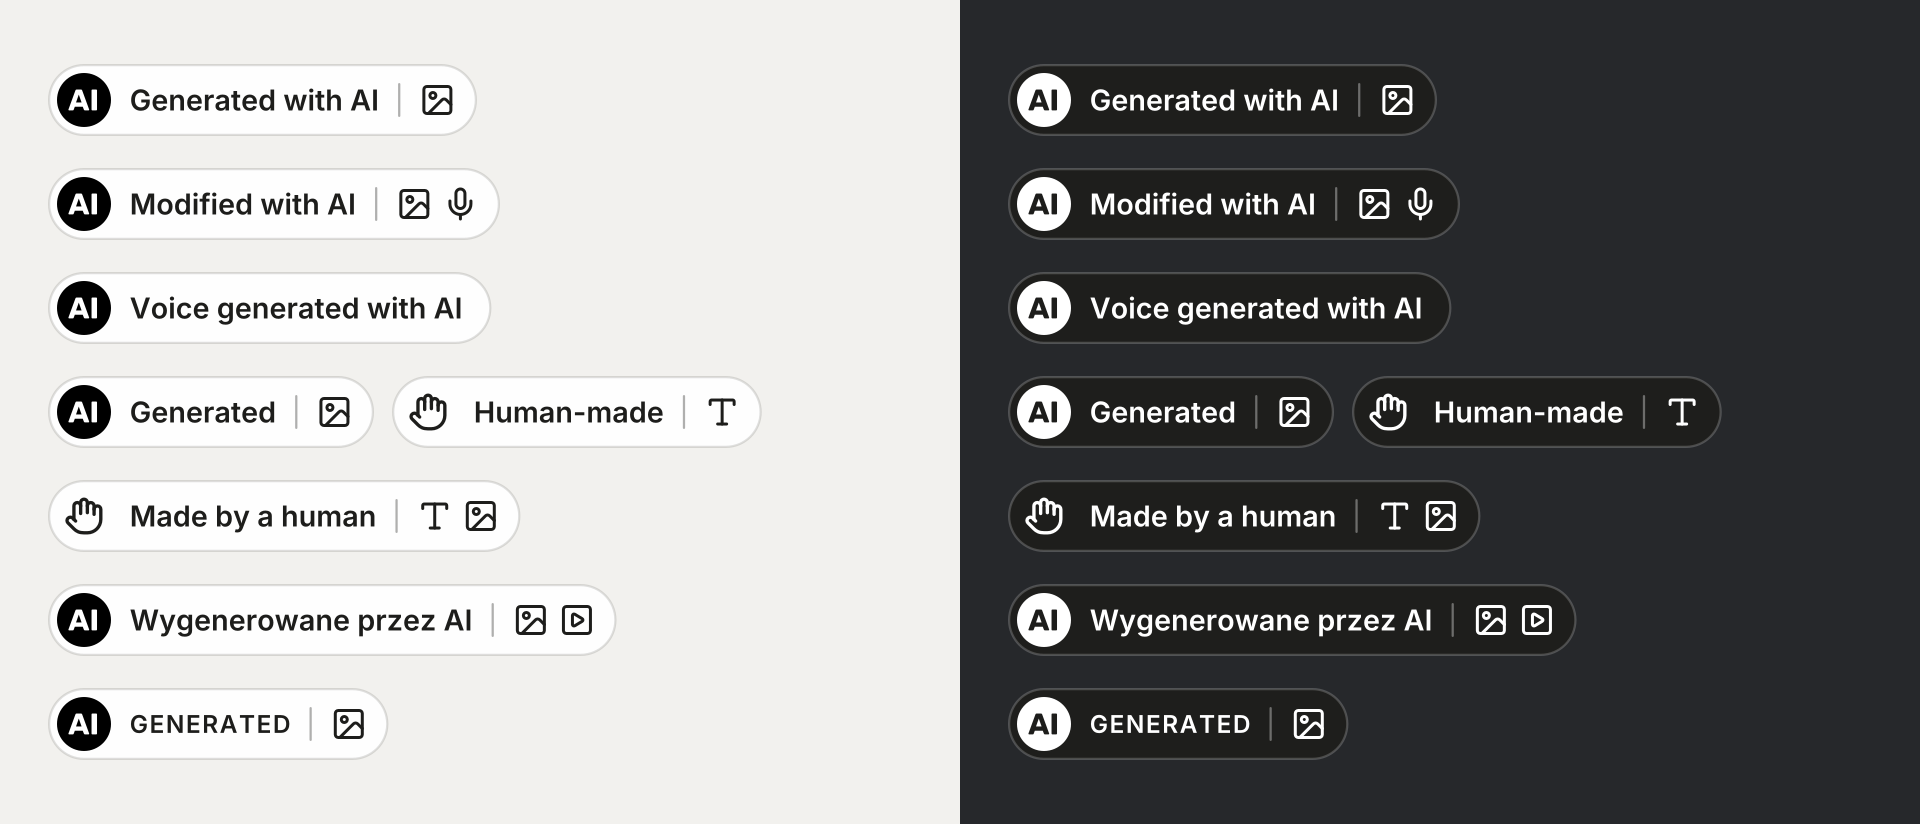
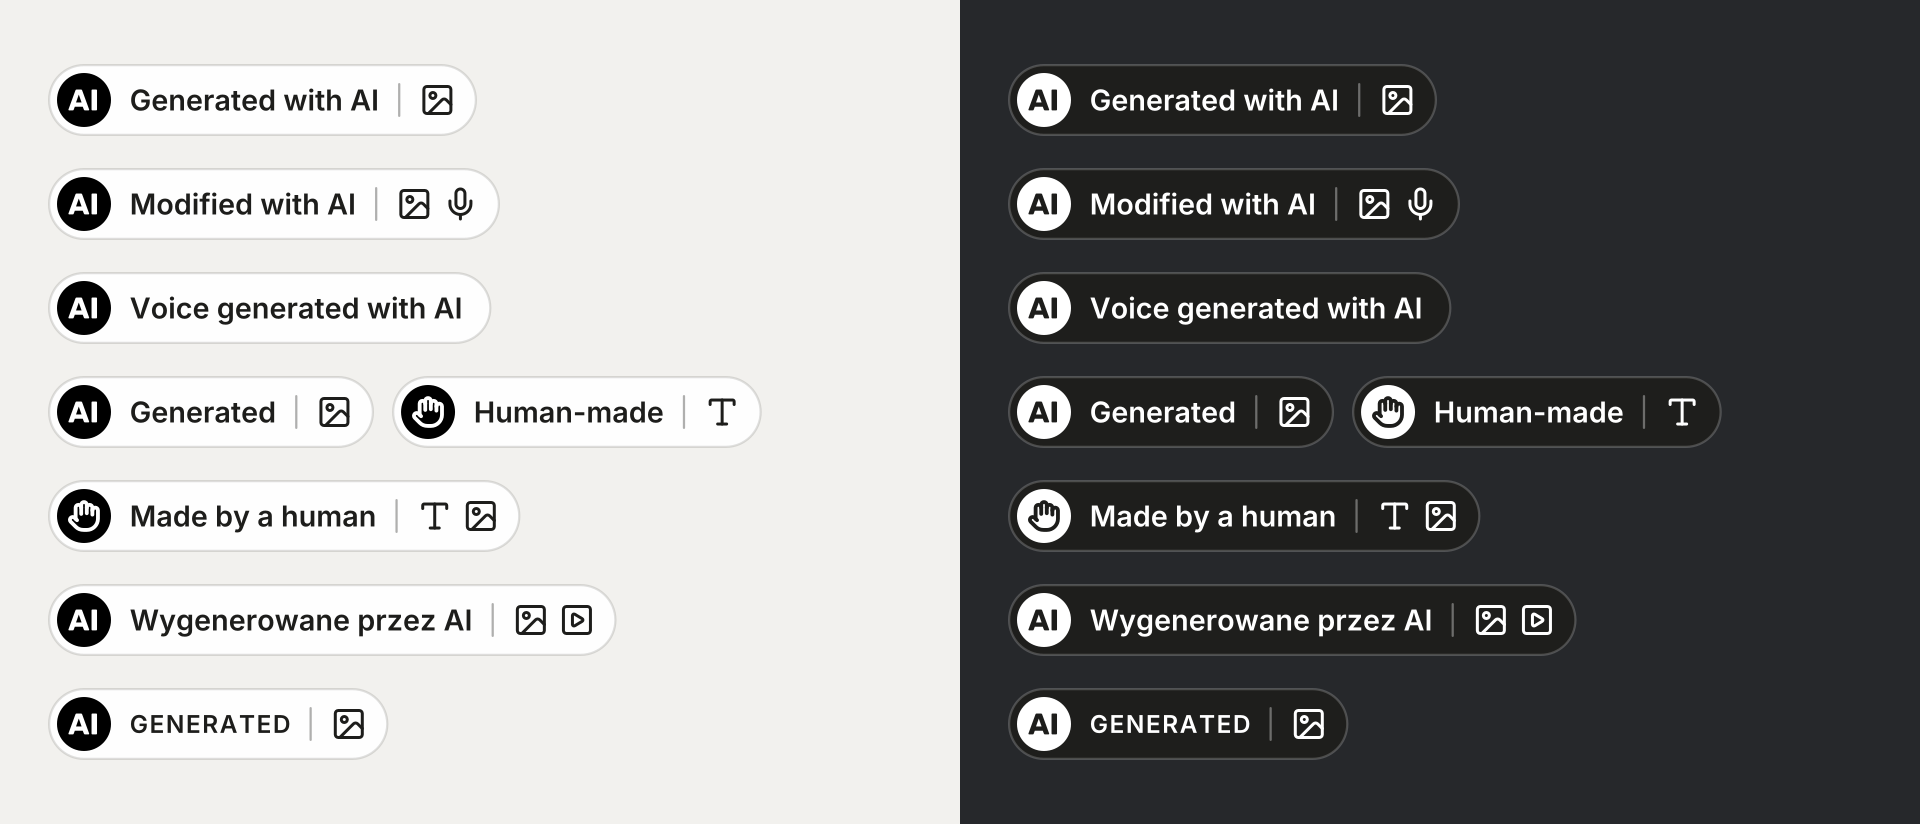
Put the human-made hand in the same disc as the EU "AI" mark
The two author marks now read as a pair: the official EU disc with "AI", or the same disc and colours with a Lucide hand drawn at a heavier stroke (2.75) so it matches the weight of the bold letters at small sizes.

diff --git a/README.md b/README.md
@@ -101,7 +101,7 @@ $ ai-labels render --kind modified --media image,voice --human text --lang pl --
 
 ![Minimal labels: the AI disc with an image icon, with image and voice icons, an AI label next to a hand with a text icon, and a hand with text and image icons](docs/minimal.png)
 
-`--minimal` drops the text. The left side says who made it (the EU "AI" disc or a hand), the right side says what (the content-type icons). It fits where a full label does not: thumbnails, avatars, dense feeds, UI chips. Two things to know before you use it:
+`--minimal` drops the text. The left side says who made it (the EU "AI" disc, or a hand in the same disc), the right side says what (the content-type icons). It fits where a full label does not: thumbnails, avatars, dense feeds, UI chips. Two things to know before you use it:
 
 - In user testing for the EU icons, labels with text were noticed and understood better. When the label is a legal duty, prefer the full form, or keep the minimal one and say the same thing in words in the caption.
 - Without text, "generated" and "modified" look the same. Only the alt text tells them apart.

diff --git a/CHANGELOG.md b/CHANGELOG.md
@@ -7,6 +7,6 @@ First public version: images.
 - `decide`: the Article 50(4) checklist (deep fakes, public-interest text, editorial review, creative works, audio) with the EU icon to use, placement, accessibility notes and alt text.
 - `render`: labels with the official basic EU icon, text in English or Polish, content-type icons and an optional "Made by a human" part; SVG, PNG or WebP; 4.5:1 text contrast on any backdrop.
 - `stamp`: burns a label into JPG, PNG, WebP, AVIF and TIFF files, sized and coloured for the image (never below 20 px). Keeps the EXIF, colour profile and XMP of the original and adds an IPTC DigitalSourceType to the XMP.
-- `--minimal`: no text, only the author mark (EU "AI" disc or a hand) and the content-type icons.
+- `--minimal`: no text, only the author mark (EU "AI" disc, or a hand in the same disc) and the content-type icons.
 - `eu`: the official EU icons, unchanged. `icons`: the content-type icons.
 - MCP server (`decide_label`, `render_label`, `stamp_image`, `eu_icon`), Claude Code plugin and skill.

diff --git a/skills/ai-content-labels/SKILL.md b/skills/ai-content-labels/SKILL.md
@@ -65,7 +65,7 @@ the repository or was copied on its own), or call the CLI through
 - Match the language of the content: `--lang pl` for Polish. Only `en` and `pl` are built in; for
   another language pass `--text` in that language (plain words, no abbreviation other than "AI").
 - `--short` gives the compact wording ("Generated"), useful for two labels side by side.
-- `--minimal` drops the text: the author mark (EU "AI" disc or a hand) plus the content-type icons.
+- `--minimal` drops the text: the author mark (EU "AI" disc, or a hand in the same disc) plus the content-type icons.
   Use it only when the user asks for it or the spot is too small for text (thumbnails, avatars, UI
   chips). When `decide` says the label is required, keep the full form, or use the minimal one and
   put the label sentence in a visible caption. Without text, "generated" and "modified" look the
